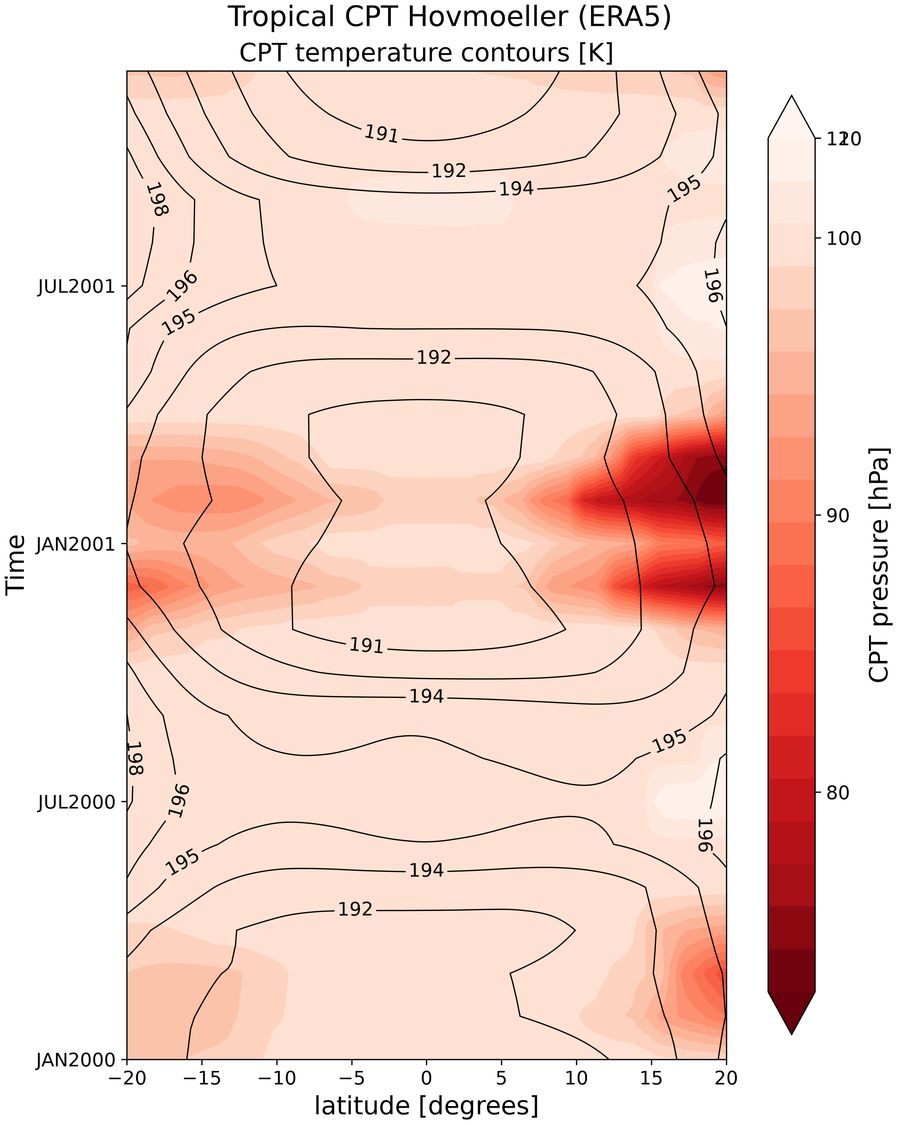
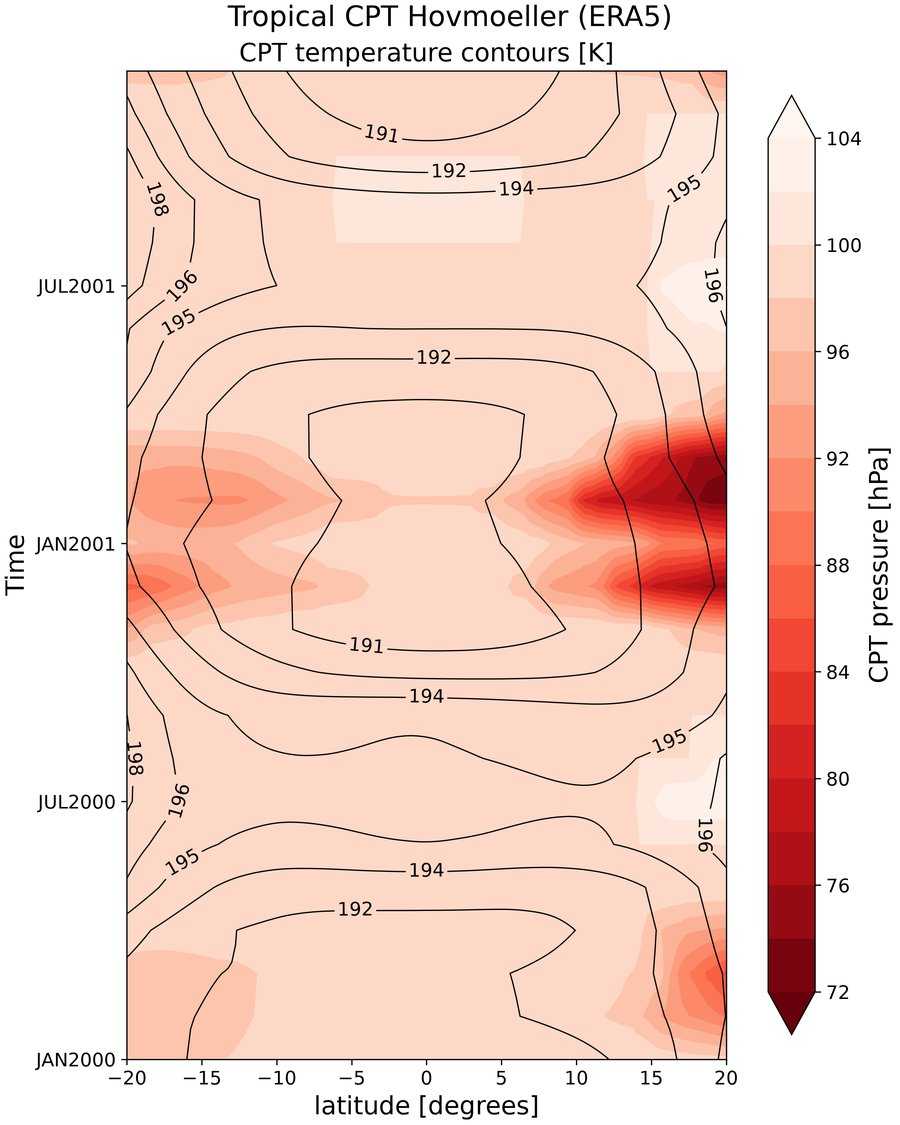
update doc sample figures, adding descriptions to numbers in rhi calc

diff --git a/esmvaltool/diag_scripts/tropopause/cpt_hovmoeller.py b/esmvaltool/diag_scripts/tropopause/cpt_hovmoeller.py
@@ -176,17 +176,22 @@ def _compute_rhi_percent(
     temperature_k: np.ndarray,
     pressure_hpa: np.ndarray,
 ) -> np.ndarray:
+    # Molar mass ratio water vapour / dry air (R_d / R_v)
     eps = 0.622
-    pressure_pa = pressure_hpa * 100.0
+    pressure_pa = pressure_hpa * 100.0  # hPa -> Pa
     q = np.asarray(specific_humidity, dtype=float)
     t = np.asarray(temperature_k, dtype=float)
     p = np.asarray(pressure_pa, dtype=float)
 
+    # Vapour pressure [Pa] from specific humidity
     vapor_pressure = q * p / (eps + (1.0 - eps) * q)
+    # Saturation vapour pressure over ice [Pa]; empirical fit constants
+    # from Murphy and Koop (2005, QJRMS, eq. 7), valid for T > 110 K
     log_es_ice = (
         9.550426 - (5723.265 / t) + (3.53068 * np.log(t)) - (0.00728332 * t)
     )
     es_ice = np.exp(log_es_ice)
+    # Relative humidity over ice [%]
     rhi = 100.0 * vapor_pressure / es_ice
     rhi[~np.isfinite(rhi)] = np.nan
     return rhi
@@ -406,7 +411,6 @@ def _plot_hovmoeller_set(
 
         cbar = fig.colorbar(cf, ax=ax, orientation="vertical", shrink=0.95)
         cbar.set_label("CPT pressure [hPa]", fontsize=16)
-        # cbar.ax.yaxis.set_major_locator(ticker.MultipleLocator(tick_step))
         cbar.set_ticks(
             np.arange(cbar_min, cbar_max + tick_step / 2, tick_step)
         )
